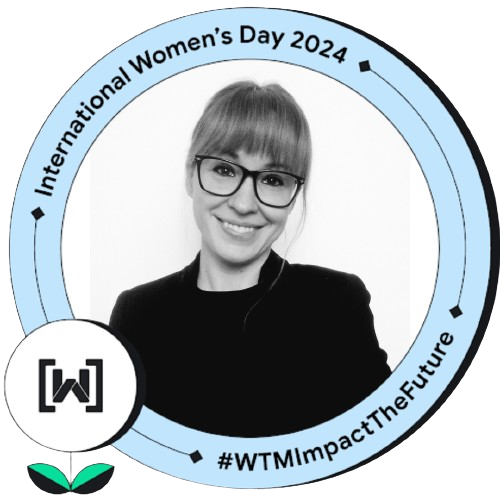
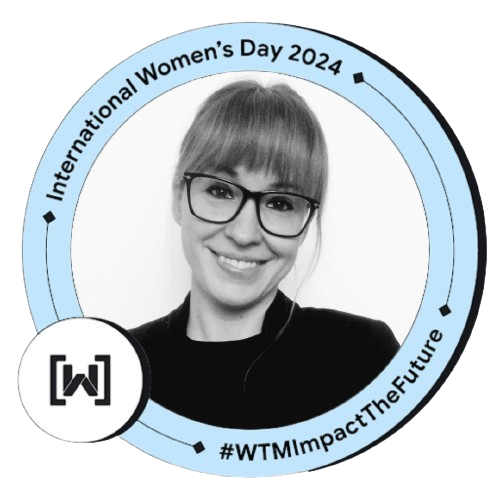
new photos

diff --git a/src/scss/layout/_agenda.scss b/src/scss/layout/_agenda.scss
@@ -89,7 +89,7 @@
     flex: 1 1 auto;
 
     @media (min-width: 768px) {
-      font-size: 1.6rem;
+      font-size: 1.4rem;
     }
   }
 
